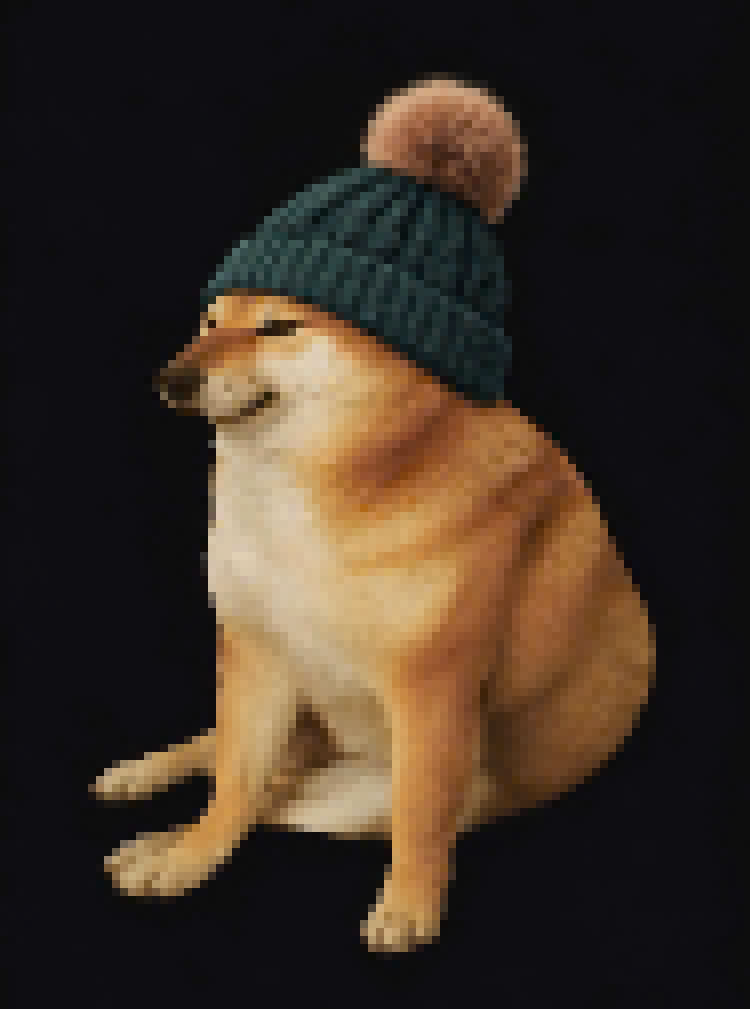
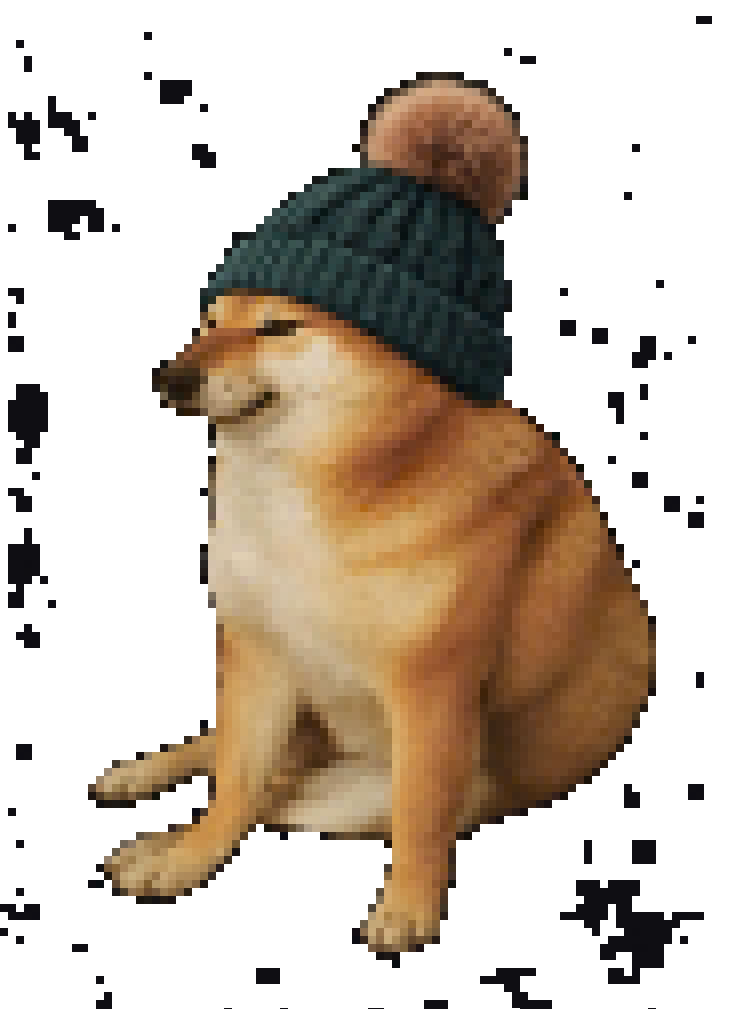
Save pet system refresh changes on backup branch

diff --git a/frontend/js/app.js b/frontend/js/app.js
@@ -37,6 +37,14 @@ const lobbyFloor = document.querySelector('#lobby-floor');
 const petGame = document.querySelector('.pet-game');
 const petImage = document.querySelector('.pet-image');
 
+window.getCurrentPetName = function () {
+	const profileName = window.currentPetProfile?.name;
+	const displayedName = document.querySelector('#pet-name')?.textContent;
+	return (typeof profileName === 'string' && profileName.trim())
+		|| (typeof displayedName === 'string' && displayedName.trim())
+		|| 'UIA';
+};
+
 function updateCoinDisplays() {
 	coinBalance.textContent = coins;
 	shopCoinBalance.textContent = coins;
@@ -80,7 +88,11 @@ function renderInventory() {
 	if (visibleItems.length === 0) {
 		const emptyState = document.createElement('p');
 		emptyState.className = 'win-empty';
-		emptyState.innerHTML = '<strong>Nothing here yet</strong>Visit the shop to find something for UIA.';
+		const title = document.createElement('strong');
+		title.textContent = 'Nothing here yet';
+		const description = document.createElement('span');
+		description.textContent = `Visit the shop to find something for ${window.getCurrentPetName()}.`;
+		emptyState.append(title, description);
 		inventoryGrid.append(emptyState);
 		renderBagDetail();
 		return;
@@ -473,7 +485,15 @@ function applyLobbyDecor() {
 		lobbyFloor.classList.remove('is-active');
 	}
 	const headwear = shopItems.find((item) => item.id === equippedDecor.headwear);
-	petImage.src = headwear?.petImage ?? 'assets/pets/meomeo.png';
+	const isDog = window.currentPetProfile?.species === 'dog';
+	const defaultPetImage = isDog ? 'assets/pets/gaugau.png' : 'assets/pets/meomeo.png';
+	const dogHeadwearImages = {
+		6: 'assets/pets/gaugau_mulen.png',
+		7: 'assets/pets/gaugau_vuongmien.png'
+	};
+	petImage.src = headwear
+		? (isDog ? dogHeadwearImages[headwear.id] ?? defaultPetImage : headwear.petImage ?? defaultPetImage)
+		: defaultPetImage;
 }
 
 function buildDecorCard(item) {
@@ -491,8 +511,9 @@ function buildDecorCard(item) {
 		art = document.createElement('div');
 		art.className = 'win-art';
 		const image = document.createElement('img');
-		image.src = 'assets/pets/meomeo.png';
-		image.alt = 'UIA without headwear';
+		const isDog = window.currentPetProfile?.species === 'dog';
+		image.src = isDog ? 'assets/pets/gaugau.png' : 'assets/pets/meomeo.png';
+		image.alt = `${isDog ? 'Dog' : 'Cat'} without headwear`;
 		art.append(image);
 	} else {
 		art = document.createElement('div');

diff --git a/frontend/js/auth.js b/frontend/js/auth.js
@@ -17,14 +17,18 @@ function profileKey(user) {
 }
 
 function readPetProfile(user) {
+	const accountName = typeof user?.username === 'string' && user.username.trim()
+		? user.username.trim()
+		: 'UIA';
 	try {
 		const saved = JSON.parse(localStorage.getItem(profileKey(user)) || '{}');
+		const savedName = typeof saved.name === 'string' ? saved.name.trim() : '';
 		return {
 			species: saved.species === 'dog' ? 'dog' : 'cat',
-			name: typeof saved.name === 'string' && saved.name.trim() ? saved.name.trim() : 'UIA'
+			name: savedName && savedName !== 'UIA' ? savedName : accountName
 		};
 	} catch {
-		return { species: 'cat', name: 'UIA' };
+		return { species: 'cat', name: accountName };
 	}
 }
 
@@ -35,6 +39,7 @@ function applyPetProfile(profile) {
 	const image = species === 'dog' ? 'assets/pets/gaugau.png' : 'assets/pets/meomeo.png';
 	document.querySelector('#pet-name').textContent = name;
 	document.querySelector('.pet-stage .pet-name').textContent = name;
+	document.querySelector('.pet-stage').setAttribute('aria-label', name);
 	document.querySelector('.pet-stage .pet-image').src = image;
 	document.querySelector('.pet-stage .pet-image').alt = `${species === 'dog' ? 'Dog' : 'Cat'}, ${name}`;
 	document.querySelector('.hud-avatar img').src = image;
@@ -108,6 +113,7 @@ document.querySelector('#confirm-pet-choice').addEventListener('click', () => {
 		const profile = { ...readPetProfile(signedInUser), species: selectedSpecies };
 		localStorage.setItem(profileKey(signedInUser), JSON.stringify(profile));
 		applyPetProfile(profile);
+		applyLobbyDecor();
 		petPicker.hidden = true;
 		entryGate.hidden = true;
 		document.body.classList.remove('entry-open');
@@ -169,6 +175,14 @@ entryForm.addEventListener('submit', async (event) => {
 			return;
 		}
 		if (authMode === 'register') {
+			try {
+				localStorage.setItem(profileKey(result.user), JSON.stringify({
+					species: 'cat',
+					name: result.user.username || username
+				}));
+			} catch {
+				// The backend also creates the pet with the account name.
+			}
 			entryError.textContent = `Account created. Please log in with ${email}.`;
 			entryError.classList.add('is-success');
 			entryForm.reset();

diff --git a/frontend/js/session.js b/frontend/js/session.js
@@ -80,7 +80,7 @@ function setFeedingStatus(message, duration = 0) {
 
 petStage.tabIndex = 0;
 petStage.setAttribute('role', 'button');
-petStage.setAttribute('aria-label', 'Feed selected food to UIA');
+petStage.setAttribute('aria-label', `Feed selected food to ${window.getCurrentPetName()}`);
 
 document.querySelector('#close-food').addEventListener('click', () => {
 	document.querySelector('#food-drawer').hidden = true;
@@ -165,7 +165,7 @@ async function feedFood(item) {
 		petStage.append(bite);
 		bite.addEventListener('animationend', () => bite.remove(), { once: true });
 		setFeedingStatus(fed.pet.level > previousLevel
-			? `${item.name} eaten! Level up! UIA is now level ${fed.pet.level}`
+			? `${item.name} eaten! Level up! ${window.getCurrentPetName()} is now level ${fed.pet.level}`
 			: `${item.name} eaten!`);
 	} catch (failure) {
 		setFeedingStatus(reportFailure(failure));
@@ -190,10 +190,10 @@ document.querySelector('#sleep-pet').addEventListener('click', async (event) => 
 	button.disabled = true;
 	try {
 		applyAccountState(await api.sleepPet());
-		setFeedingStatus('UIA took a nap and feels rested!');
+		setFeedingStatus(`${window.getCurrentPetName()} took a nap and feels rested!`);
 	} catch (failure) {
 		const message = reportFailure(failure);
-		setFeedingStatus(message, message.startsWith('UIA is not sleepy right now') ? 5000 : 0);
+		setFeedingStatus(message, message.includes('not sleepy right now') ? 5000 : 0);
 	} finally {
 		button.disabled = false;
 	}

diff --git a/frontend/index.html b/frontend/index.html
@@ -219,10 +219,10 @@
         </form>
     </section>
     <script src="js/pixel.js" defer></script>
-    <script src="js/demo.js" defer></script>
-    <script src="js/app.js" defer></script>
-    <script src="js/session.js" defer></script>
-    <script src="js/auth.js" defer></script>
+    <script src="js/demo.js?v=pet-name-20261024" defer></script>
+    <script src="js/app.js?v=pet-name-20261024" defer></script>
+    <script src="js/session.js?v=pet-name-20261024" defer></script>
+    <script src="js/auth.js?v=pet-name-20261024" defer></script>
 </body>
 
 </html>

diff --git a/frontend/js/demo.js b/frontend/js/demo.js
@@ -93,7 +93,7 @@
 			return persist(next);
 		},
 		async sleepPet() {
-			if (state.pet.energy >= 100) throw new Error('UIA is not sleepy right now.');
+			if (state.pet.energy >= 100) throw new Error(`${window.getCurrentPetName?.() || 'UIA'} is not sleepy right now.`);
 			const next = copy(state);
 			next.pet.energy = Math.min(100, next.pet.energy + 40);
 			return persist(next);

diff --git a/backend/src/Auth/AuthService.cpp b/backend/src/Auth/AuthService.cpp
@@ -349,8 +349,9 @@ RegisterResult AuthService::registerUser(std::string username, std::string email
             return {RegisterStatus::DATABASE_ERROR, 0, detail};
         }
 
-        Statement insertPet(database, "INSERT INTO pets (user_id, name) VALUES (?, 'UIA');");
+        Statement insertPet(database, "INSERT INTO pets (user_id, name) VALUES (?, ?);");
         sqlite3_bind_int64(insertPet.get(), 1, userId);
+        sqlite3_bind_text(insertPet.get(), 2, username.c_str(), -1, SQLITE_TRANSIENT);
         if (sqlite3_step(insertPet.get()) != SQLITE_DONE) {
             const std::string detail = sqlite3_errmsg(database);
             execute(database, "ROLLBACK;");
@@ -522,6 +523,16 @@ LoginResult AuthService::loginWithIdentity(std::string username, std::string pas
         sqlite3_bind_int(insertSession.get(), 2, userId);
         sqlite3_bind_int64(insertSession.get(), 3, expiresAt);
         if (sqlite3_step(insertSession.get()) != SQLITE_DONE) {
+            const std::string detail = sqlite3_errmsg(database);
+            execute(database, "ROLLBACK;");
+            return {LoginStatus::DATABASE_ERROR, 0, {}, {}, 0, detail};
+        }
+
+        Statement nameDefaultPet(database,
+            "UPDATE pets SET name = ? WHERE user_id = ? AND name = 'UIA';");
+        sqlite3_bind_text(nameDefaultPet.get(), 1, canonicalUsername.c_str(), -1, SQLITE_TRANSIENT);
+        sqlite3_bind_int(nameDefaultPet.get(), 2, userId);
+        if (sqlite3_step(nameDefaultPet.get()) != SQLITE_DONE) {
             const std::string detail = sqlite3_errmsg(database);
             execute(database, "ROLLBACK;");
             return {LoginStatus::DATABASE_ERROR, 0, {}, {}, 0, detail};

diff --git a/docs/user-data-model.md b/docs/user-data-model.md
@@ -76,7 +76,7 @@ cmake --build build --config Release
 
 Open `http://127.0.0.1:8080/` and use **Tạo tài khoản**. The server serves the frontend and `POST /api/auth/register` from one origin, listens on loopback only, and stores accounts in `backend/database/virtual_pet.db` by default. To choose a port and database path, pass `[port] [database-path]` to the executable.
 
-The registration endpoint accepts JSON `{ "username": "...", "email": "...", "password": "..." }`. Email is required and unique. Login accepts `{ "email": "...", "password": "..." }`. Passwords are hashed using Argon2id (3 iterations, 64 MiB, one lane, per-account cryptographic 16-byte salt); the raw password is never written to SQLite. The insert, initial 100-coin profile, default `UIA` pet, and empty inventory are created atomically. SQLite's case-insensitive UNIQUE constraints are the final guard against duplicate registrations.
+The registration endpoint accepts JSON `{ "username": "...", "email": "...", "password": "..." }`. Email is required and unique. Login accepts `{ "email": "...", "password": "..." }`. Passwords are hashed using Argon2id (3 iterations, 64 MiB, one lane, per-account cryptographic 16-byte salt); the raw password is never written to SQLite. The insert, initial 100-coin profile, pet named after the account username, and empty inventory are created atomically. SQLite's case-insensitive UNIQUE constraints are the final guard against duplicate registrations.
 
 ## Login sessions
 

diff --git a/docs/api-contract.md b/docs/api-contract.md
@@ -112,7 +112,9 @@ Creates an account and its initial game data. Body:
 
 `username` is 3–20 ASCII letters, digits, or underscores and is unique
 case-insensitively. `email` is required and unique case-insensitively.
-`password` has at least 8 Unicode characters.
+`password` has at least 8 Unicode characters. The new pet is named after the
+account username; legacy pets still named `UIA` are updated to the username at
+the next successful login.
 
 Success: `201`
 
@@ -172,7 +174,7 @@ Returned by `/game/state` and after every state-changing game endpoint.
   "user": { "id": 42, "username": "player_01", "coins": 85 },
   "pet": {
     "id": 1,
-    "name": "UIA",
+    "name": "player_01",
     "level": 1,
     "health": 100,
     "experience": 0,
